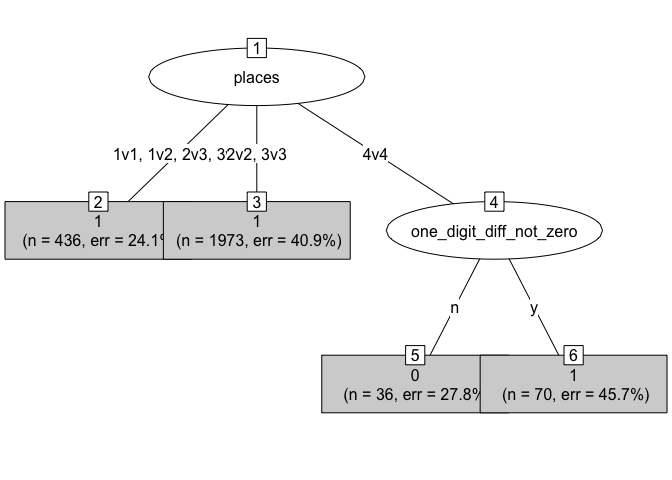
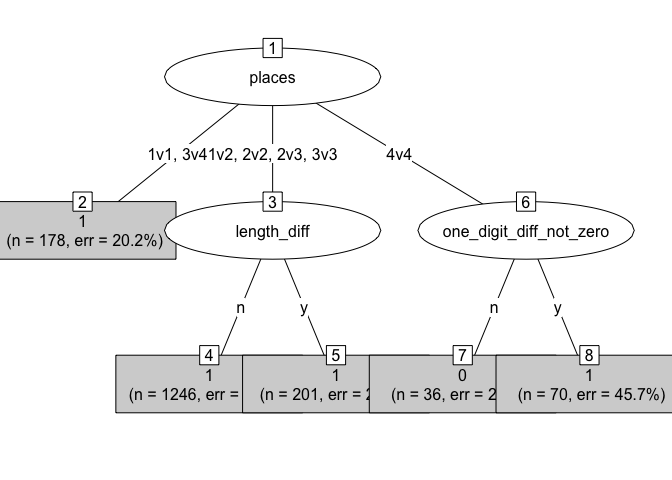
revised chaid trees

diff --git a/Markdown/Analysis-2_CHAID-trees_N_M.md b/Markdown/Analysis-2_CHAID-trees_N_M.md
@@ -52,9 +52,12 @@ Plot for the N task
 data_n_long = read.csv(here("Data/data_n_long.csv"))
 
 ## Exclude items that had fewer than 15 responses
-inclusde_ids = read.csv(here("Data/data_n_item_binomial.csv")) %>%
-  filter(item_total_n < 15) %>%
+inclusde_ids = read.csv(here("Data/data_n_item_binomial.csv"))  %>%
+  filter(item_total_n >= 10) %>%
   select(item)
+
+data_n_long = data_n_long %>%
+  filter(item %in% inclusde_ids$item)
 
 # make sure that all feature cols are factors
 data_n_long = data_n_long %>%
@@ -94,11 +97,11 @@ data_more_long = read.csv(here("Data/data_more_long.csv"))
 
 ## Exclude items that had fewer than 15 responses
 inclusde_ids = read.csv(here("Data/data_more_item_binomial.csv")) %>%
-  filter(item_total_n < 15) %>%
+  filter(item_total_n >= 10) %>%
   select(item)
 
 data_more_long = data_more_long %>%
-  left_join(inclusde_ids, by = "item")
+  filter(item %in% inclusde_ids$item)
 
 # make sure that all feature cols are factors
 data_more_long = data_more_long %>%

diff --git a/Markdown/Analysis_3_Network_stats.md b/Markdown/Analysis_3_Network_stats.md
@@ -46,7 +46,7 @@ more_measures = read.csv(here("Data/data_more_network_measures.csv")) %>%
 
 n_more_measures = rbind(n_measures, more_measures)
 
-# # plot global centrality measures
+# plot global centrality measures
 network_stat_long = n_more_measures %>%
   group_by(task, quartile) %>%
   summarise(density = mean(density), diameter = mean(diameter), degree = mean(degree)) %>%
